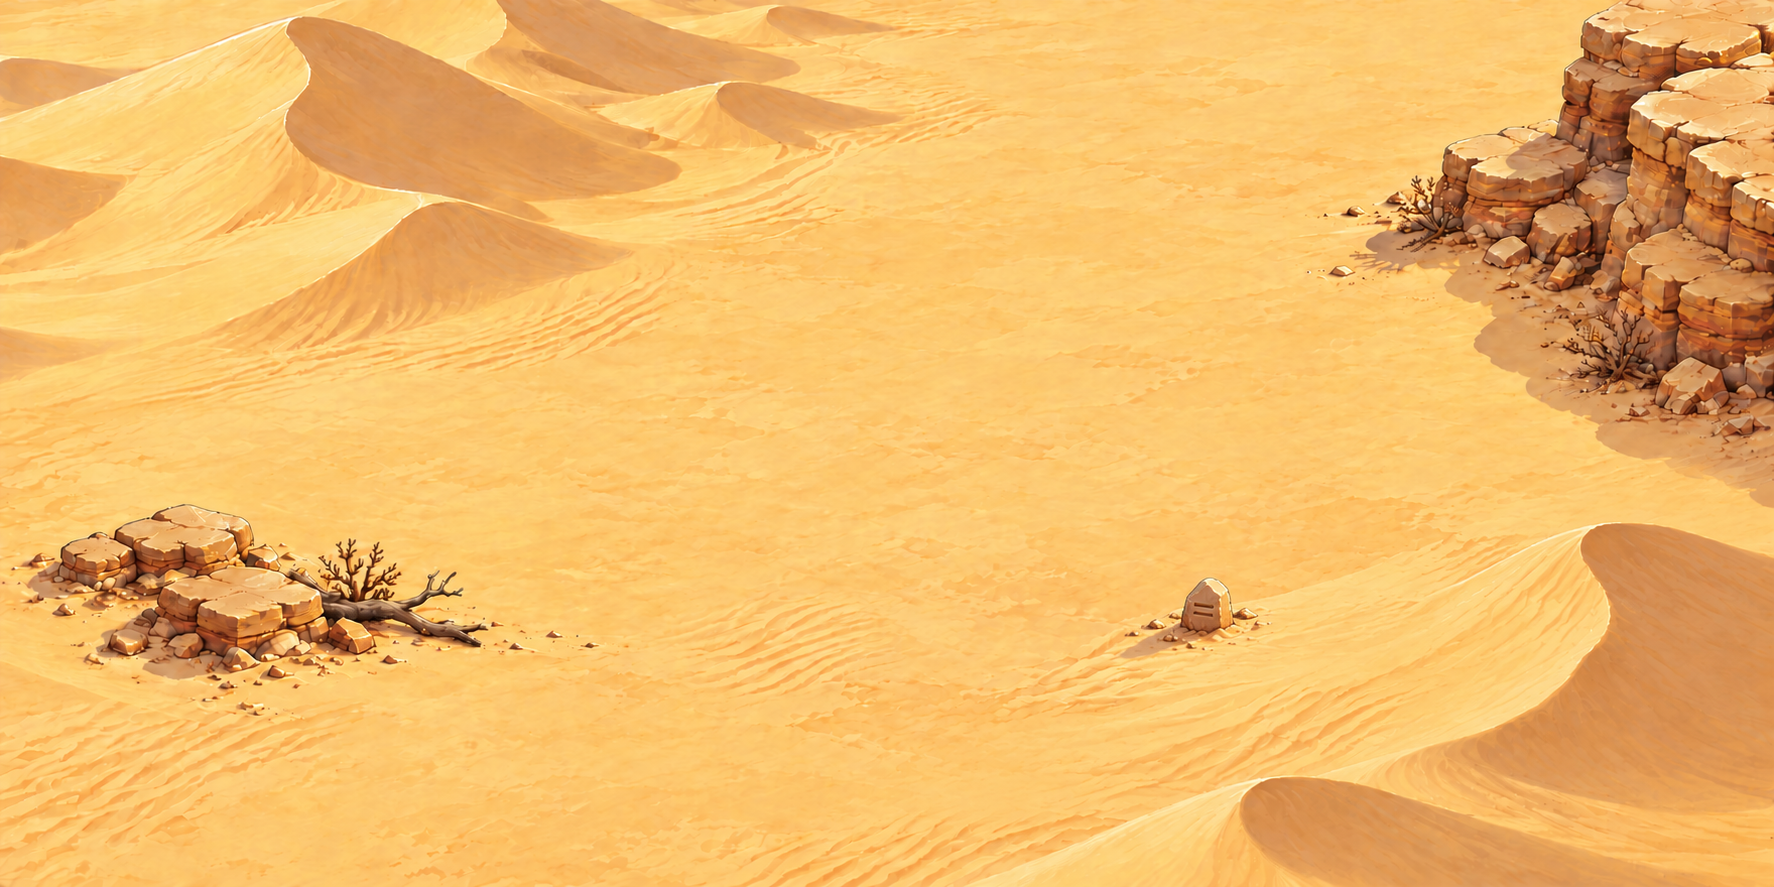
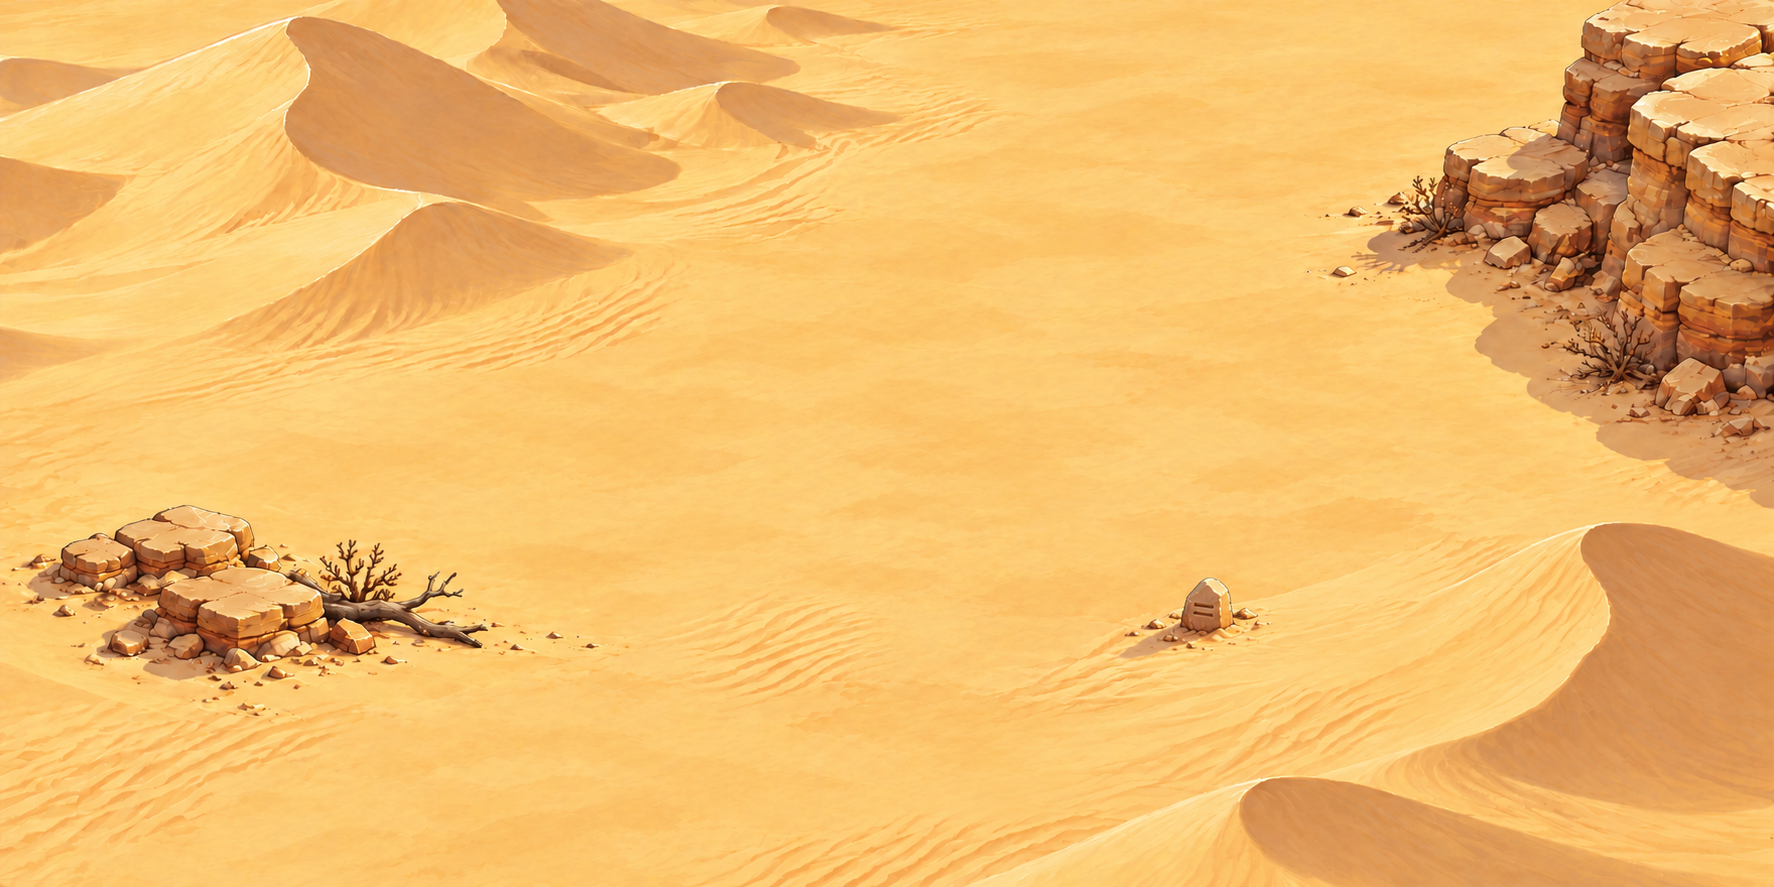
art: adopt map03 original-object sand composite

diff --git a/docs/ASTRA-DRAW-STATE.md b/docs/ASTRA-DRAW-STATE.md
@@ -16,7 +16,7 @@
 
 15번 **위층 수신부 원본 채택**: [최종 PNG](art/desert-15-approved-2026-10-16/approved-final.png). 오른쪽 광원 → 가운데 반사판 → 위쪽 수신부. 노란 선은 사용자 광로 설명이며 그림에 합성하지 않음. [상세 프롬프트·장치 배치 기록](art/desert-15-spatial-revision-2026-10-16/REUSE.md). 아래층 수정안은 미채택. 런타임 미적용.
 
-05 시안 1 원본(앙크 포함) 채택. 06은 03에 통합 확정, 03 통합 시안 2 채택. [03 최신 원본](art/desert-03-ridge-approved-2026-10-16/approved-final.png) · [05 원본](art/desert-05-approved-2026-10-16/approved-final.png). [07 오아시스 시안 2](art/desert-07-approved-2026-10-16/approved-final.png) 채택. [08 시안 4](art/desert-08-approved-2026-10-16/approved-final.png) 채택. [09 기존 시안 4](art/desert-09-approved-2026-10-16/approved-final.png) 원본 채택(시점 수정 2안 미채택). [10 시안 1 원본](art/desert-10-approved-2026-10-16/approved-final.png) 채택. [10 시안 3](art/desert-10-candidates-2026-10-16/png/candidate-03.png)은 별도 맵 활용 후보로 보존(제작·번호·연결 미확정). [11 원본 2번](art/desert-11-approved-2026-10-16/approved-final.png) 채택(모래 추가 전). 12 두 회랑 채택: `art/desert-12-approved-2026-10-16/selection.json` 순서. 13은 시안 3 원본에서 다시 제작한 왼쪽 입구 확장본(2078×757)을 최종 채택: [원본 PNG](art/desert-13-approved-2026-10-16/approved-final.png). 14 시안 1 채택: `art/desert-14-approved-2026-10-16/`. 15는 위층 수신부 원본 채택(위 링크). 광원·반사판·수신부 가동 에셋과 게임 검증은 미완료. 채택 그림만 Drive 업로드. 런타임 미적용.
+05 시안 1 원본(앙크 포함) 채택. 06은 03에 통합 확정, 03 통합 시안 2 채택. [03 최신 원본](art/desert-03-sand-composite-2026-10-16/review.png) · [05 원본](art/desert-05-approved-2026-10-16/approved-final.png). [07 오아시스 시안 2](art/desert-07-approved-2026-10-16/approved-final.png) 채택. [08 시안 4](art/desert-08-approved-2026-10-16/approved-final.png) 채택. [09 기존 시안 4](art/desert-09-approved-2026-10-16/approved-final.png) 원본 채택(시점 수정 2안 미채택). [10 시안 1 원본](art/desert-10-approved-2026-10-16/approved-final.png) 채택. [10 시안 3](art/desert-10-candidates-2026-10-16/png/candidate-03.png)은 별도 맵 활용 후보로 보존(제작·번호·연결 미확정). [11 원본 2번](art/desert-11-approved-2026-10-16/approved-final.png) 채택(모래 추가 전). 12 두 회랑 채택: `art/desert-12-approved-2026-10-16/selection.json` 순서. 13은 시안 3 원본에서 다시 제작한 왼쪽 입구 확장본(2078×757)을 최종 채택: [원본 PNG](art/desert-13-approved-2026-10-16/approved-final.png). 14 시안 1 채택: `art/desert-14-approved-2026-10-16/`. 15는 위층 수신부 원본 채택(위 링크). 광원·반사판·수신부 가동 에셋과 게임 검증은 미완료. 채택 그림만 Drive 업로드. 런타임 미적용.
 
 > **압축 후 사막 작업은 [01~04 통합 인수인계](ASTRA-DESERT-HANDOFF.md)부터 읽는다.** 01~04 최종 채택 완료. 정확한 최종 PNG·생성문·참고 원본·실패 교훈·다음 작업 순서는 이 문서가 최신이다. main 전달 대상은 01 최종본, 02 출구 국소 합성본, 03 외곽선 보강본, 04 마지막 시안 채택본이다. 게임 런타임 적용은 미실행.
 

diff --git a/사막맵/README.md b/사막맵/README.md
@@ -2,7 +2,7 @@
 
 현재 확보한 최종 채택 PNG **29장**. 원본을 재압축·리사이즈하지 않고 그대로 복사했다. 게임 적용·배포와는 별개다.
 
-- 06은 03에 통합되어 별도 파일이 없다.
+- 06은 03에 통합되어 별도 파일이 없다. 03 최신본은 모래 잔무늬를 정리하고 기존 원본의 바위·나무·잔돌을 합성한 채택본이다. 이전 원본은 docs/art에 보존한다.
 - 13번은 3번 원본에서 다시 제작한 왼쪽 입구 확장 최종 채택본이다.
 - 01은 닫힘·열림, 12는 첫째·둘째 회랑, 17 부속 주거실, 추가 보물방은 닫힘과 개별 상자 개방 5장을 포함한다.
 - 전망맵은 최초 원본에서 다시 수정한 오른쪽 오벨리스크 최종본이다. 이전 위치·크기 시안은 제외했다.
